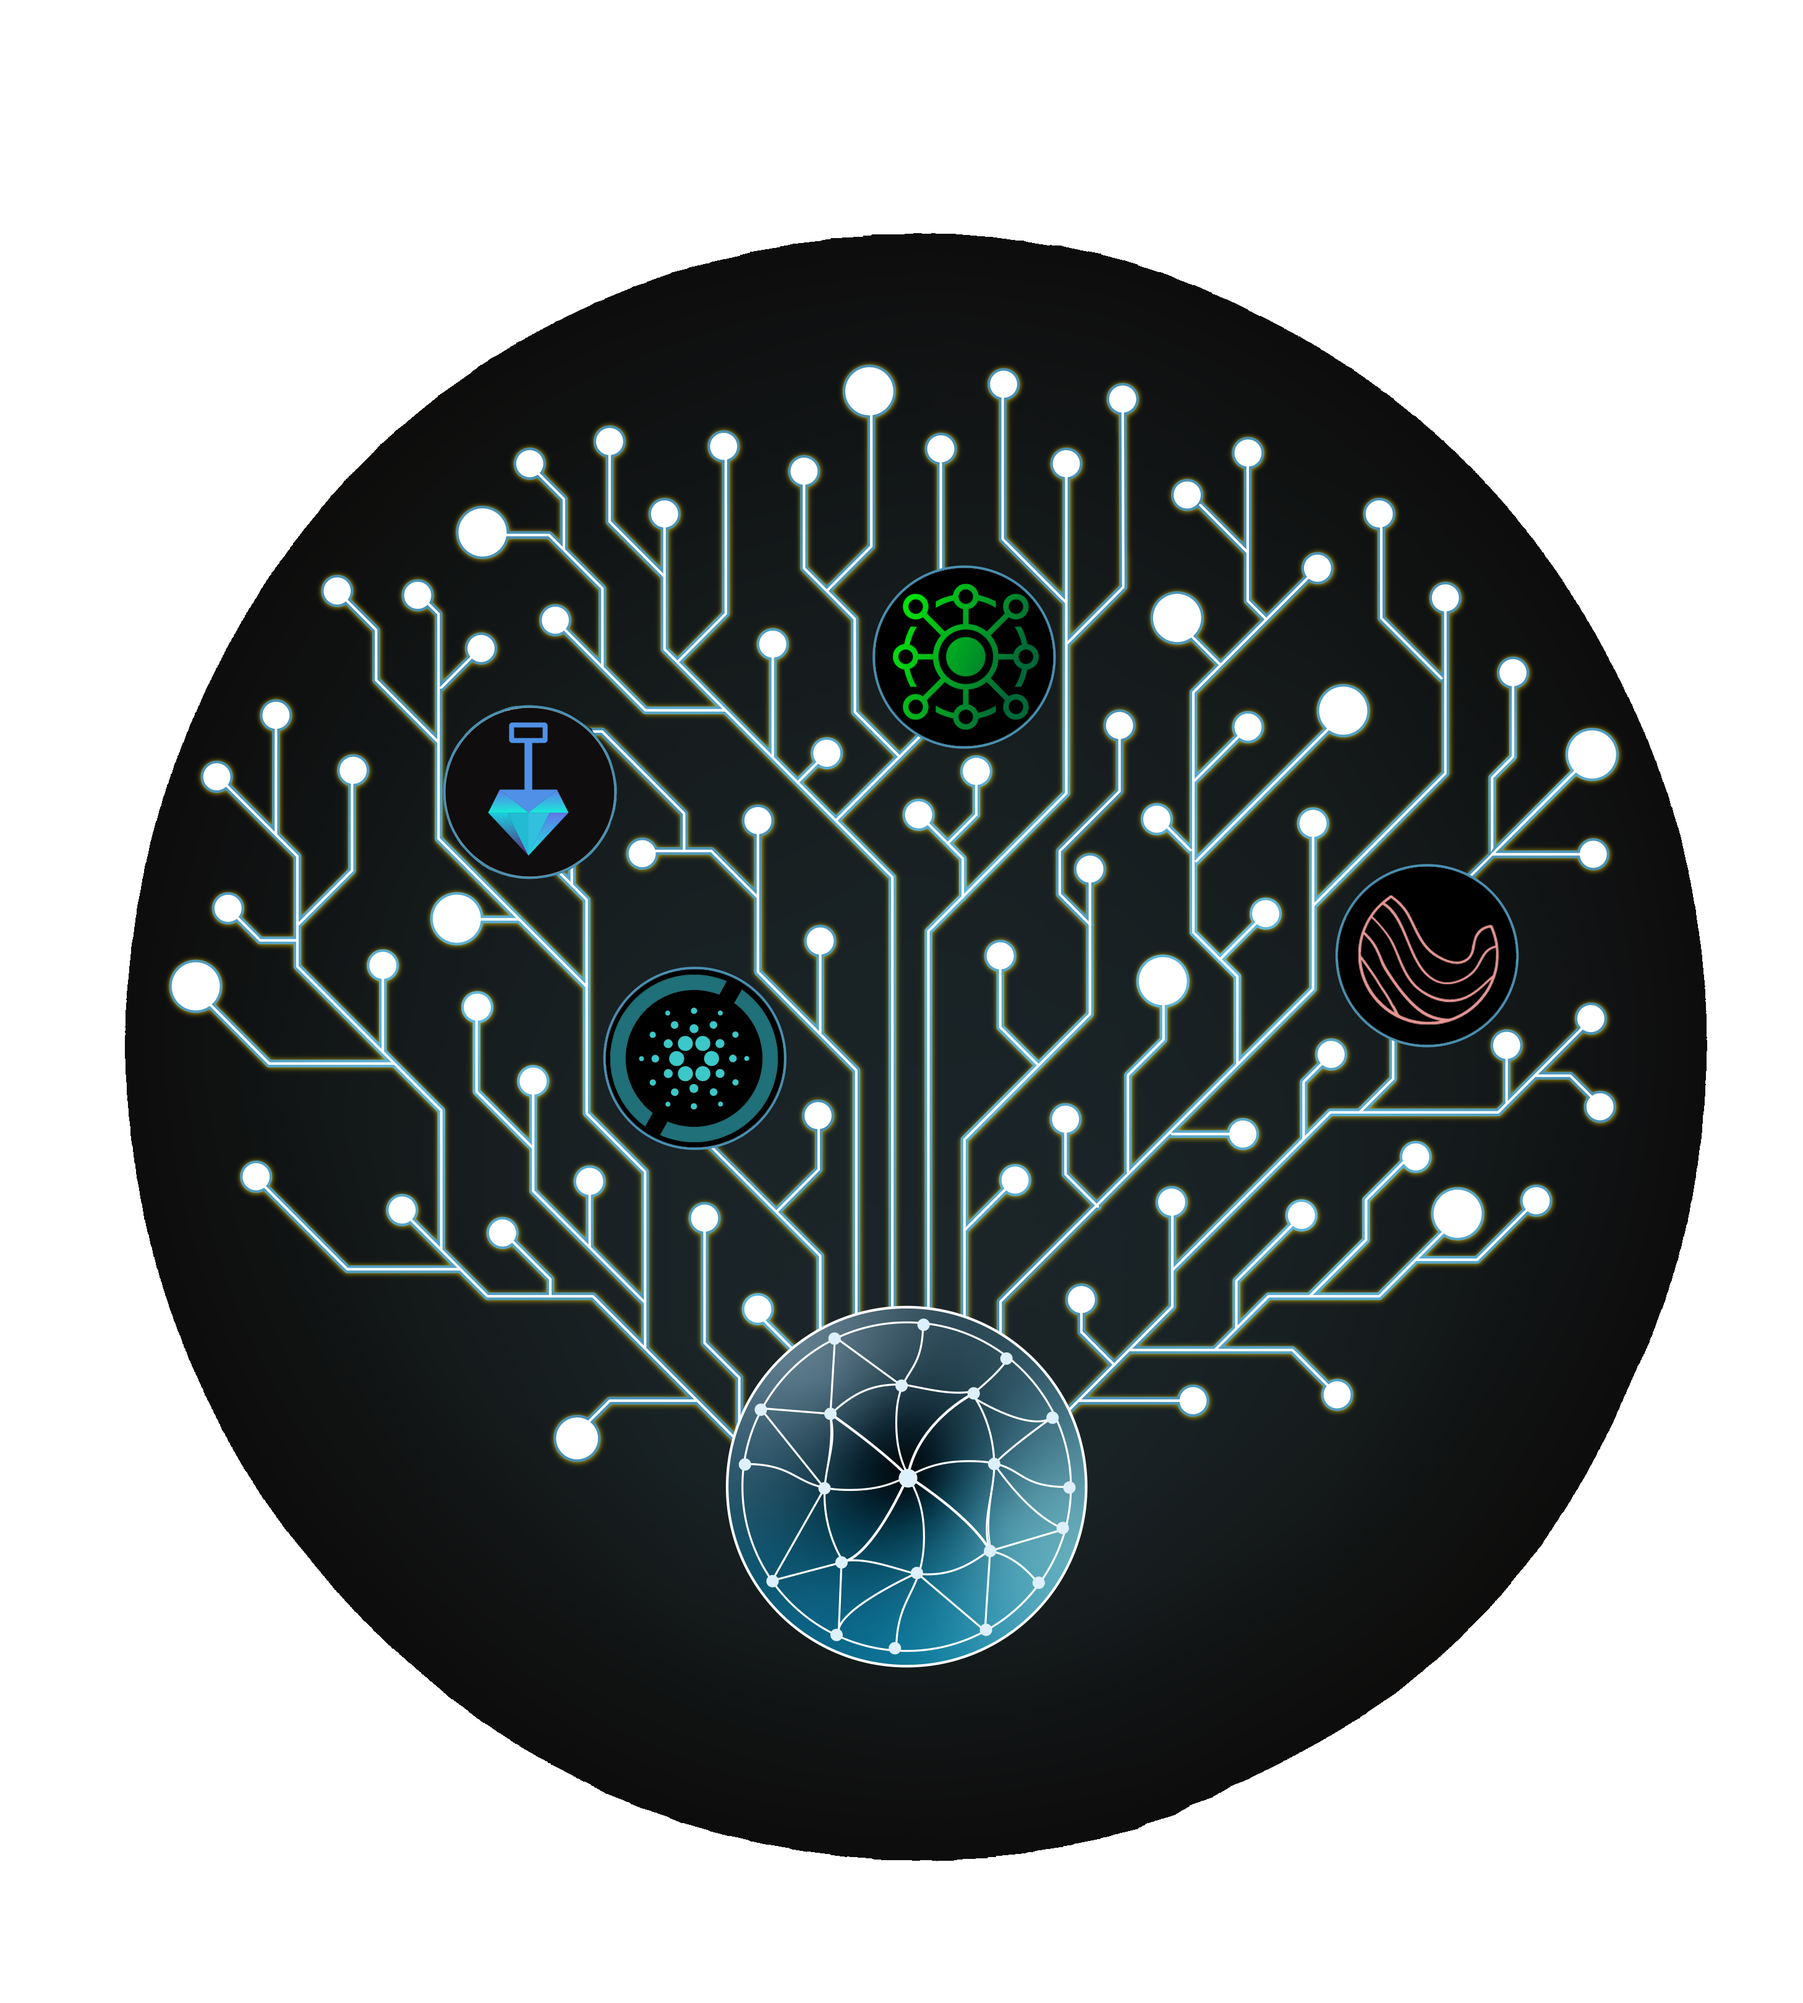
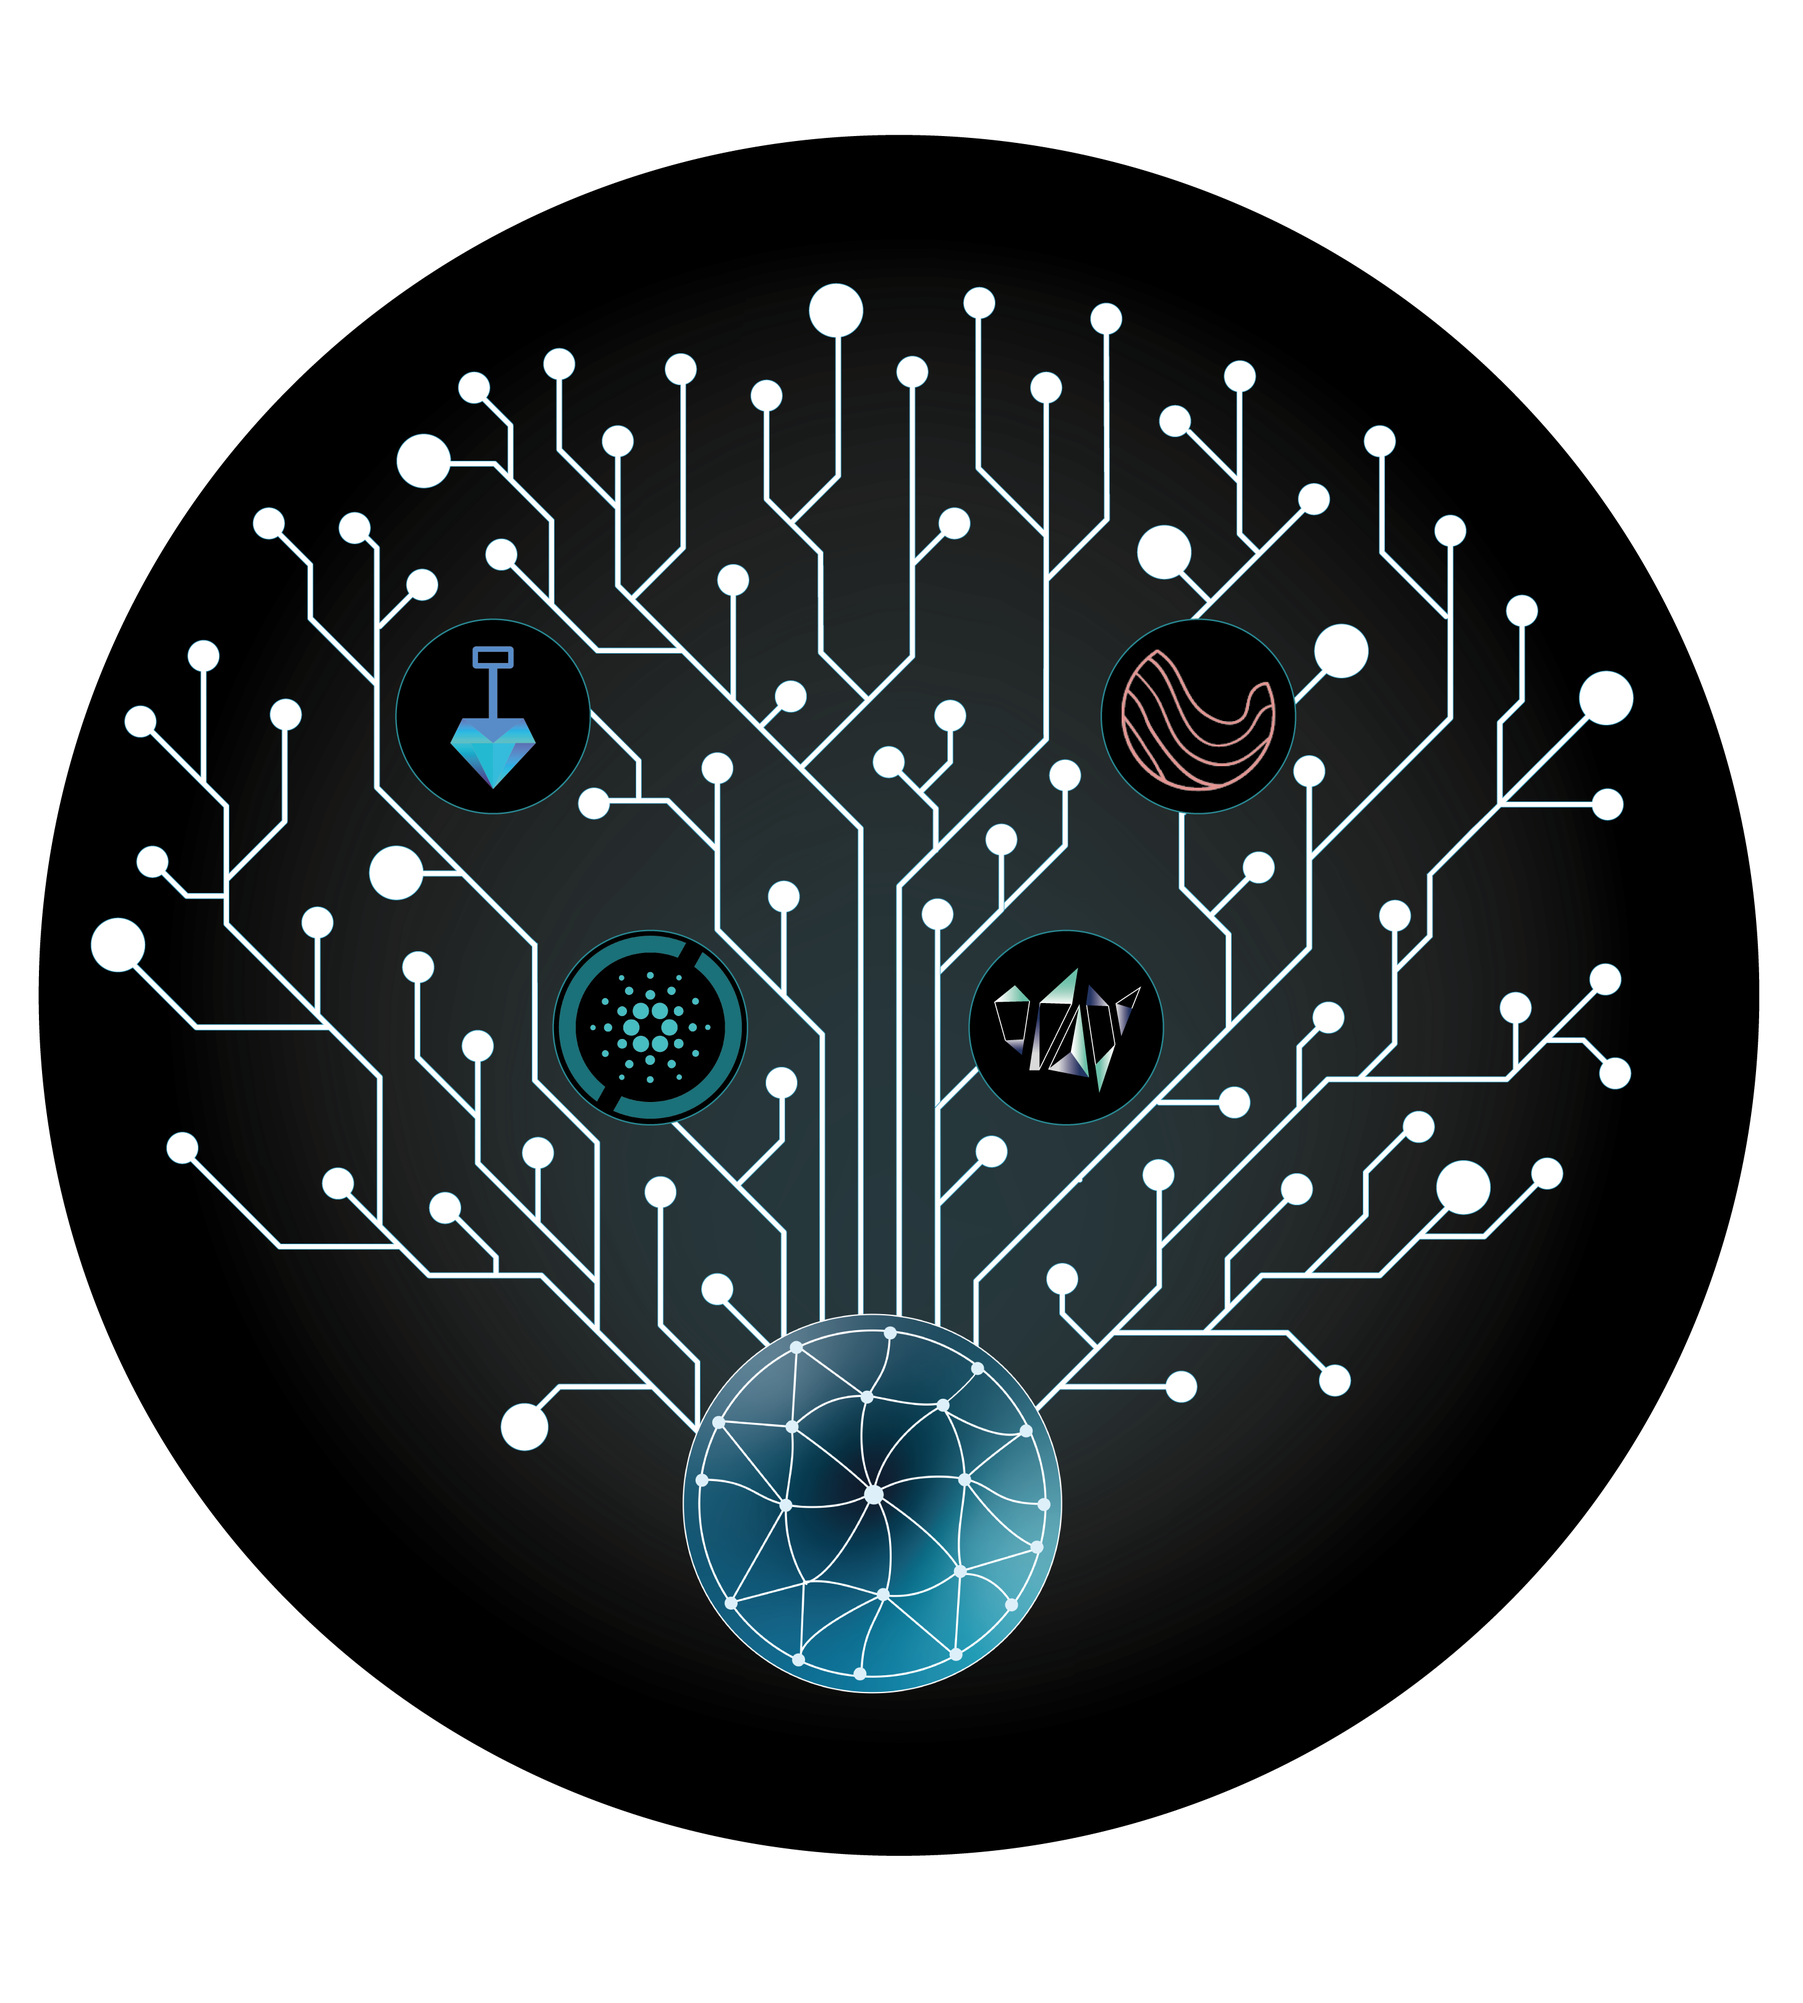
add proto pool

diff --git a/src/views/PoolPage/PoolPage.js b/src/views/PoolPage/PoolPage.js
@@ -12,7 +12,6 @@ import { makeStyles } from "@material-ui/core/styles";
 
 // core components
 import Header from "components/Header/Header.js";
-import Footer from "components/Footer/Footer.js";
 import GridContainer from "components/Grid/GridContainer.js";
 import GridItem from "components/Grid/GridItem.js";
 import Button from "components/CustomButtons/Button.js";
@@ -36,8 +35,10 @@ import CpuBanner from "assets/poolAssets/cpu/CpuBanner.png";
 import MinesLogo from "assets/poolAssets/mines/mines_logo.png";
 import MinesBanner from "assets/poolAssets/mines/MinesBanner.png";
 
-import UdpLogo from "assets/poolAssets/udp/udpLogo.png";
-import UdpBanner from "assets/poolAssets/udp/udpBanner.png";
+import ProtoLogoGif from "assets/poolAssets/proto/Proto_logo_GIF.gif";
+import ProtoLogoStatic from "assets/poolAssets/proto/Proto_logo_static.png";
+
+// import ProtoBanner from "assets/poolAssets/proto/ProtoBanner.png";
 
 import FileCopyIcon from "@material-ui/icons/FileCopy";
 
@@ -46,12 +47,11 @@ import Filip from "assets/img/faces/Filip.jpg";
 import Nora from "assets/img/faces/Nora.jpg";
 import Patricia from "assets/img/faces/Patricia.jpg";
 import Emil from "assets/img/faces/emil_avatar.jpg";
-import Dario from "assets/img/faces/Dario.jpg";
+import Miha from "assets/img/faces/Miha.jpg";
 import Stjepan from "assets/img/faces/stjepan.jpg";
 
 //components
 import TextBox from "./Components/Textbox.js";
-import ShowAda from "./Components/ShowAda.js";
 
 import styles from "assets/jss/material-kit-react/views/landingPage.js";
 import styled, { keyframes, createGlobalStyle } from "styled-components";
@@ -171,6 +171,7 @@ const frescoAnimation = keyframes`
 const frescoInitialState = "transform: rotate(90deg) scale(1.2);";
 
 const frescoLogoCustomCss = "filter: drop-shadow(0px 0px 32px #207179);";
+const protoLogoCustomCss = "display: none;";
 
 const BannerLogoContainer = styled.div`
   position: absolute;
@@ -411,10 +412,11 @@ const PoolPage = (props) => {
       description: (
         <>
           Founded in the dark times of Covid-19, first because of boredom, then
-          realizing how special and ready to help Cardano community is, it became a passion.
+          realizing how special and ready to help Cardano community is, it
+          became a passion.
           <br />
-          This pool is determened to help the community and accelerate the advent
-          of Cardano future.
+          This pool is determened to help the community and accelerate the
+          advent of Cardano future.
           <br />
           <br />
           Join Adastra mines and be the part of community who want better
@@ -424,10 +426,11 @@ const PoolPage = (props) => {
       descriptionMobile: (
         <>
           Founded in the dark times of Covid-19, first because of boredom, then
-          realizing how special and ready to help Cardano community is, it became a passion.
+          realizing how special and ready to help Cardano community is, it
+          became a passion.
           <br />
-          This pool is determened to help the community and accelerate the advent
-          of Cardano future.
+          This pool is determened to help the community and accelerate the
+          advent of Cardano future.
           <br />
           <br />
           Join Adastra mines and be the part of community who want better
@@ -526,47 +529,51 @@ const PoolPage = (props) => {
       firstOperator: Patricia,
       secondOperator: Nora,
     },
-    UDP: {
-      name: "Utterly Determined Pool |UDP|",
+    PROTO: {
+      name: "Proto Pool |PROTO|",
       poolColor: "black",
-      secondaryColor: "#000",
-      logoColor: "#93fcec",
-      bodyBackgroundColor: "#93fcec",
+      secondaryColor: "	#2d3866",
+      logoColor: "#6e8cff",
+      bodyBackgroundColor: "#6e8cff",
+      logoCustomCss: protoLogoCustomCss,
       description: (
         <>
-          The most recent addition to the CPU team. Founded as a way for it's
-          owner to learn more about the Cardano community and explore various
-          use cases of Cardano.
+          Inspired by the Protomolecule from the TV show "The Expanse," created
+          by extra-terrestrials, the technology that was superior to everything
+          humans knew, much like Cardano is to the majority of blockchains
+          today.
           <br />
           <br />
-          With the rest of the CPU team, we are hoping to enable community
-          members to utilize the Cardano project by providing tooling, education
-          and support.
+          With Proto pool, we are supporting{" "}
+          <a href="https://cardano.org/"> Cardano</a> community and ensuring our
+          delegators secure and smooth process. We are building a better future
+          one block at the time.
         </>
       ),
       descriptionMobile: (
         <>
-          The most recent addition to the CPU team. Founded as a way for it's
-          owner to learn more about the Cardano community and explore various
-          use cases of Cardano.
+          Inspired by the Protomolecule from the TV show "The Expanse," created
+          by extra-terrestrials, the technology that was superior to everything
+          humans knew, much like Cardano is to the majority of blockchains
+          today.
           <br />
-          With the rest of the CPU team, we are hoping to enable community
-          members to utilize the Cardano project by providing tooling, education
-          and support.
+          PROTO is a stake pool that tries to be as reliable, secure and
+          profitable as possible while supporting the
+          <a href="https://cardano.org/"> Cardano</a> community.
         </>
       ),
 
-      id: "9f38b462566102fe9bc1061131f298164d51ea54464ad984d486ce87",
-      banner: UdpBanner,
-      logoMobile: UdpLogo,
-      logoStatic: "",
-      logoDynamic: "",
-      twitter: "https://twitter.com/PoolUdp",
+      id: "b00b421fbc620f0a2fdcf3243265d253b2e30c40da2c172dc5ab4640",
+      banner: VenusBanner,
+      logoMobile: ProtoLogoStatic,
+      logoStatic: ProtoLogoGif,
+      logoDynamic: ProtoLogoGif,
+      twitter: "https://twitter.com/Proto_Pool",
       telegram: "https://t.me/CPUPools",
-      github: "https://github.com/dariour",
-      logoAnimation: false,
+      github: "https://github.com/miha2010",
+      logoAnimation: true,
       operators: true,
-      firstOperator: Dario,
+      firstOperator: Miha,
     },
   };
 
@@ -691,6 +698,7 @@ const PoolPage = (props) => {
 
   useEffect(() => {
     //get URL params
+
     setTimeout(async () => {
       setStartAnimation(true);
     }, 800);

diff --git a/src/views/LandingPage/Sections/TeamSection.js b/src/views/LandingPage/Sections/TeamSection.js
@@ -20,7 +20,7 @@ import team1 from "assets/img/faces/Patricia.jpg";
 import team2 from "assets/img/faces/Filip.jpg";
 import team3 from "assets/img/faces/Nora.jpg";
 import emil from "assets/img/faces/Emil.jpg";
-import team4 from "assets/img/faces/Dario.jpg";
+import team4 from "assets/img/faces/Miha.jpg";
 
 const useStyles = makeStyles(styles);
 
@@ -126,16 +126,14 @@ export default function TeamSection() {
                 <img src={team4} alt="..." className={imageClasses} />
               </GridItem>
               <h4 className={classes.cardTitle}>
-                Dario Uršulin
+                Mihovil Santek
                 <br />
               </h4>
               <CardBody>
                 <p className={classes.description}>
-                  A problem solver at heart, Dario only recently joined the
-                  Cardano community.
-                  <br />
-                  Interested in exploring various use cases of Cardano and using
-                  his experience to further popularize the project.
+                  Mihovil is a React developer from Croatia, entered in the crypto sphere in 2017 as a ICO investor. 
+                  Fascinated by the <a href="https://cardano.org/">Cardano</a> blockchain, now playing an active role 
+                  in Cardano community as a owner of <a href="/pool?id=PROTO">Proto Pool.</a>
                 </p>
               </CardBody>
               <CardFooter className={classes.justifyCenter}>

diff --git a/src/components/Header/HeaderLinks.js b/src/components/Header/HeaderLinks.js
@@ -46,10 +46,10 @@ export default function HeaderLinks(props) {
           }}
           buttonIcon={InvertColors}
           dropdownList={[
-            <a href="/pool?id=CPU" className={classes.dropdownLink}>Main Pool [CPU]</a>,
-            <a href="/pool?id=ERA"  className={classes.dropdownLink}>ERA Pool [ERA]</a>,
+            <a href="/pool?id=CPU" className={classes.dropdownLink}>CPU Pool [CPU]</a>,
+            <a href="/pool?id=ERA"  className={classes.dropdownLink}>Nova Era Pool [ERA]</a>,
             <a href="/pool?id=VENUS"  className={classes.dropdownLink}>Fresco Pool [VENUS]</a>,
-            <a href="/pool?id=UDP" className={classes.dropdownLink}>Utterly Determined Pool [UDP]</a>,
+            <a href="/pool?id=PROTO" className={classes.dropdownLink}>Proto Pool [PROTO]</a>,
             <a href="/pool?id=MINES"  className={classes.dropdownLink}>ADAstra Mines [MINES]</a>,
           ]}
         />

diff --git a/src/Context/ContextProvider.js b/src/Context/ContextProvider.js
@@ -13,7 +13,7 @@ const MyProvider = (props) => {
     ERA: "13375a4a5470b564246a3251ea0ccfef046ee5bcaf3ed6de6315abc7",
     CPU: "b45c1860e038baa0642b352ccf447ed5e14430342a11dd75bae52f39",
     MINES: "3e5fcbaf750c0291cecb72384091724a1c2d35da10a71473e16c926f",
-    UDP: "9f38b462566102fe9bc1061131f298164d51ea54464ad984d486ce87",
+    PROTO: "b00b421fbc620f0a2fdcf3243265d253b2e30c40da2c172dc5ab4640",
   };
   const [scrollOffset, setScrollOffset] = useState(0);
   useScrollPosition(({ prevPos, currPos }) => {
@@ -74,10 +74,10 @@ const MyProvider = (props) => {
       "ERA"
     );
     fetchStats(
-      `https://js.adapools.org/pools/${poolIds.UDP}/summary.json`,
+      `https://js.adapools.org/pools/${poolIds.PROTO}/summary.json`,
       setPoolStats,
       "pool",
-      "UDP"
+      "PROTO"
     );
   }, []);
 

diff --git a/src/views/LandingPage/Sections/PoolSection.js b/src/views/LandingPage/Sections/PoolSection.js
@@ -63,14 +63,14 @@ export default function PoolSection() {
         </GridItem>
         <GridItem xs={12} sm={12} md={4}>
           <PoolCard
-            name={"Utterly Determined Pool [UDP]"}
-            address={"9f38b462566102fe9bc1061131f298164d51ea54464ad984d486ce87"}
+            name={"Proto Pool [PROTO]"}
+            address={"b00b421fbc620f0a2fdcf3243265d253b2e30c40da2c172dc5ab4640"}
             kickstart
             margin={"0.85%"}
             fixedFee={"340"}
             pledge={"5000"}
             delegateLink={"/faq#StoreAndDelegate"}
-            poolLink={"/pool?id=UDP"}
+            poolLink={"/pool?id=PROTO"}
             operator={{
               name: "Name#1",
               image: face,

diff --git a/src/components/Footer/Footer.js b/src/components/Footer/Footer.js
@@ -47,8 +47,8 @@ export default function Footer(props) {
               </a>
             </ListItem>
             <ListItem className={classes.inlineBlock}>
-              <a href="/pool?id=UDP" className={classes.block}>
-                [UDP]
+              <a href="/pool?id=PROTO" className={classes.block}>
+                [PROTO]
               </a>
             </ListItem>
             <ListItem className={classes.inlineBlock}>
